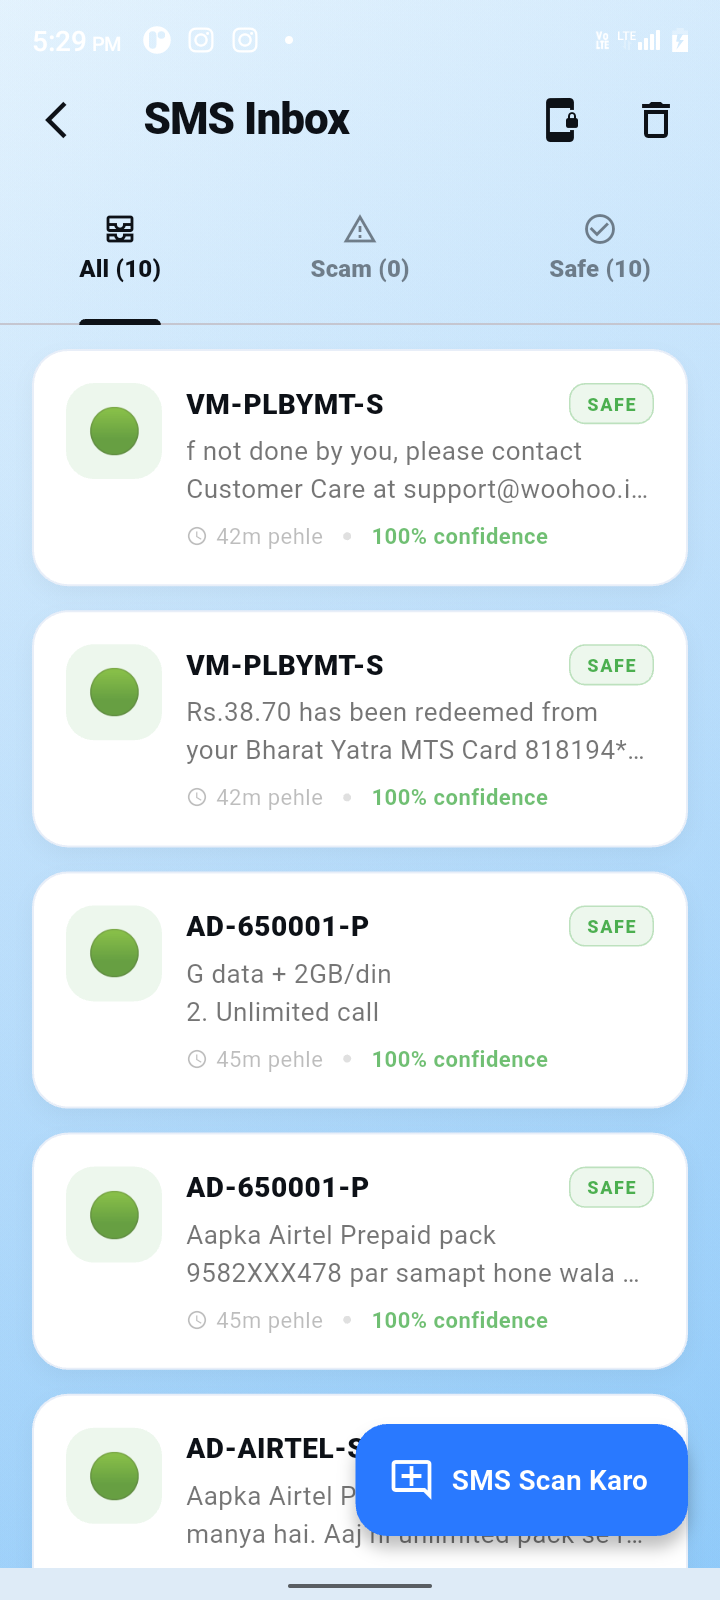
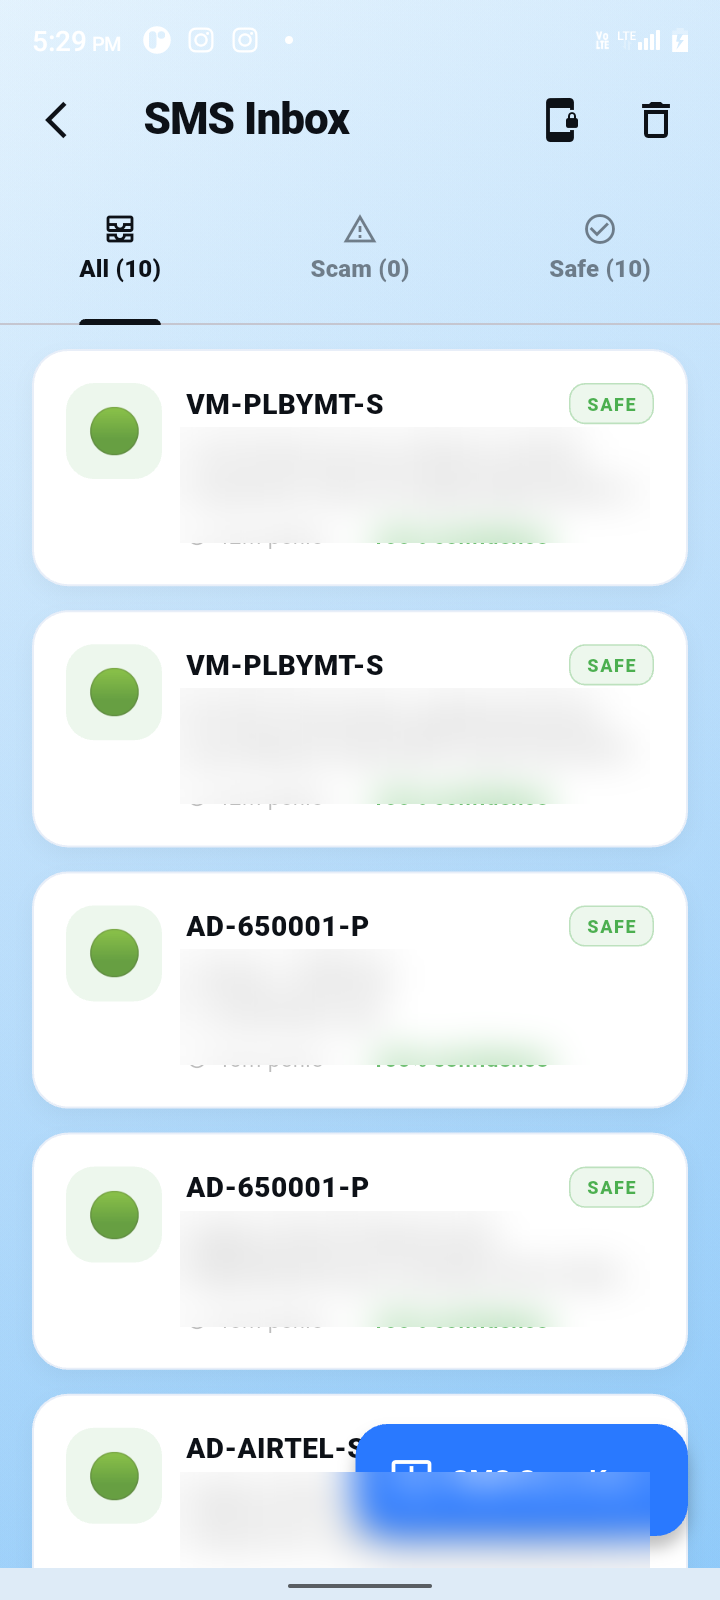
feat(docs): add phone mockups for incident response & blurred SMS privacy protection

diff --git a/README.md b/README.md
@@ -47,7 +47,7 @@
 ### 🚨 Rapid Incident Response (I4C Golden Hour Protocol)
 | Golden Hour & 1930 Helpline | Emergency Bank Freeze Directory | Legal FIR Complaint Generator |
 | :---: | :---: | :---: |
-| <img src="docs/screenshots/04_incident_response_top.png" width="230" style="border-radius: 14px;" /> | <img src="docs/screenshots/05_incident_response_bank_directory.png" width="230" style="border-radius: 14px;" /> | <img src="docs/screenshots/06_incident_response_complaint_generator.png" width="230" style="border-radius: 14px;" /> |
+| <img src="docs/screenshots/mockups/09_incident_response_top.png" width="235" /> | <img src="docs/screenshots/mockups/10_incident_response_bank_directory.png" width="235" /> | <img src="docs/screenshots/mockups/11_incident_response_complaint_generator.png" width="235" /> |
 | **Direct Gateway to National 1930 Helpline** | **One-Touch Dial & Freeze for 10+ Major Banks** | **Automated Section 66D IT Act Legal Draft** |
 
 <br>
@@ -55,7 +55,7 @@
 ### 🛡 Live Threat Defense
 | SMS Scam & Smishing Radar |
 | :---: |
-| <img src="docs/screenshots/10_sms_inbox_scanner.png" width="230" style="border-radius: 14px;" /> |
+| <img src="docs/screenshots/mockups/12_sms_inbox_scanner.png" width="280" /> |
 | **Real-Time SMS & OTP Protection** |
 
 </div>
